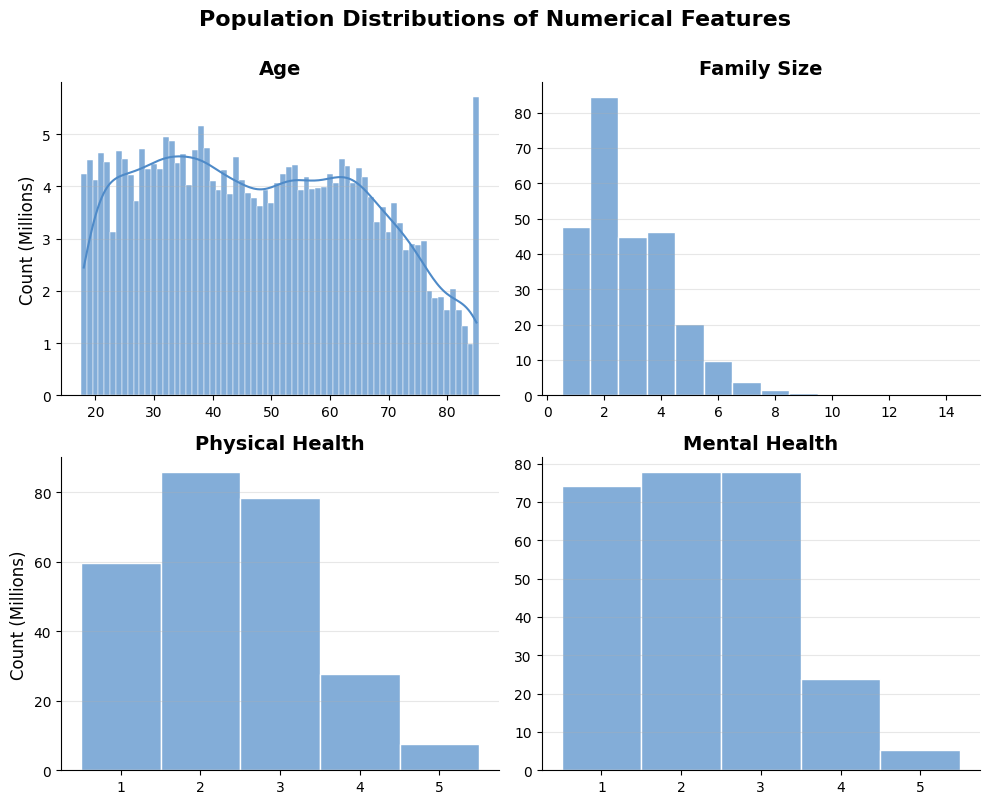
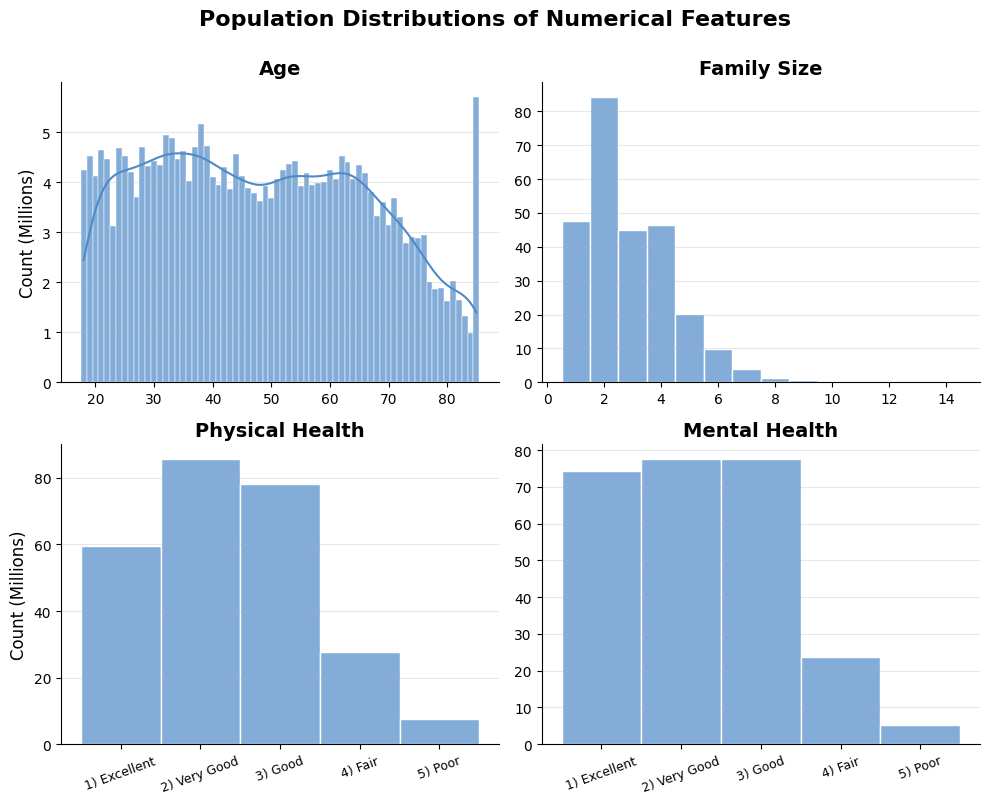
style(eda): add x-tick labels for perceived physical and mental health in histogram matrices of numerical features

diff --git a/notebooks/medical_cost_prediction.py b/notebooks/medical_cost_prediction.py
@@ -1010,6 +1010,12 @@ for i, feature in enumerate(numerical_features):
     ax.set_title(display_labels[feature], fontsize=14, fontweight="bold") 
     ax.set_xlabel("")
     ax.set_ylabel("Count" if i % 2 == 0 else "", fontsize=12) # Only y-label on left plots
+    
+    # Set x-axis tick labels for perceived health features
+    if feature in ["RTHLTH31", "MNHLTH31"]:
+        ax.set_xticks([1, 2, 3, 4, 5])
+        ax.set_xticklabels(["1) Excellent", "2) Very Good", "3) Good", "4) Fair", "5) Poor"], fontsize=9, rotation=20)
+        
     ax.grid(True, axis="y", alpha=0.3)  # Adds grid lines
     sns.despine(ax=ax)  # Removes top & right spines
 
@@ -1050,6 +1056,12 @@ for i, feature in enumerate(numerical_features):
     ax.set_title(display_labels[feature], fontsize=14, fontweight="bold") 
     ax.set_xlabel("")
     ax.set_ylabel("Count (Millions)" if i % 2 == 0 else "", fontsize=12)     # Only y-label on left plots
+    
+    # Set x-axis tick labels for perceived health features
+    if feature in ["RTHLTH31", "MNHLTH31"]:
+        ax.set_xticks([1, 2, 3, 4, 5])
+        ax.set_xticklabels(["1) Excellent", "2) Very Good", "3) Good", "4) Fair", "5) Poor"], fontsize=9, rotation=20)
+        
     ax.yaxis.set_major_formatter(mtick.FuncFormatter(lambda x, pos: f"{x/1e6:.0f}"))  # Formats y-axis ticks in millions
     ax.grid(True, axis="y", alpha=0.3)  # Adds grid lines
     sns.despine(ax=ax)  # Removes top & right spines
